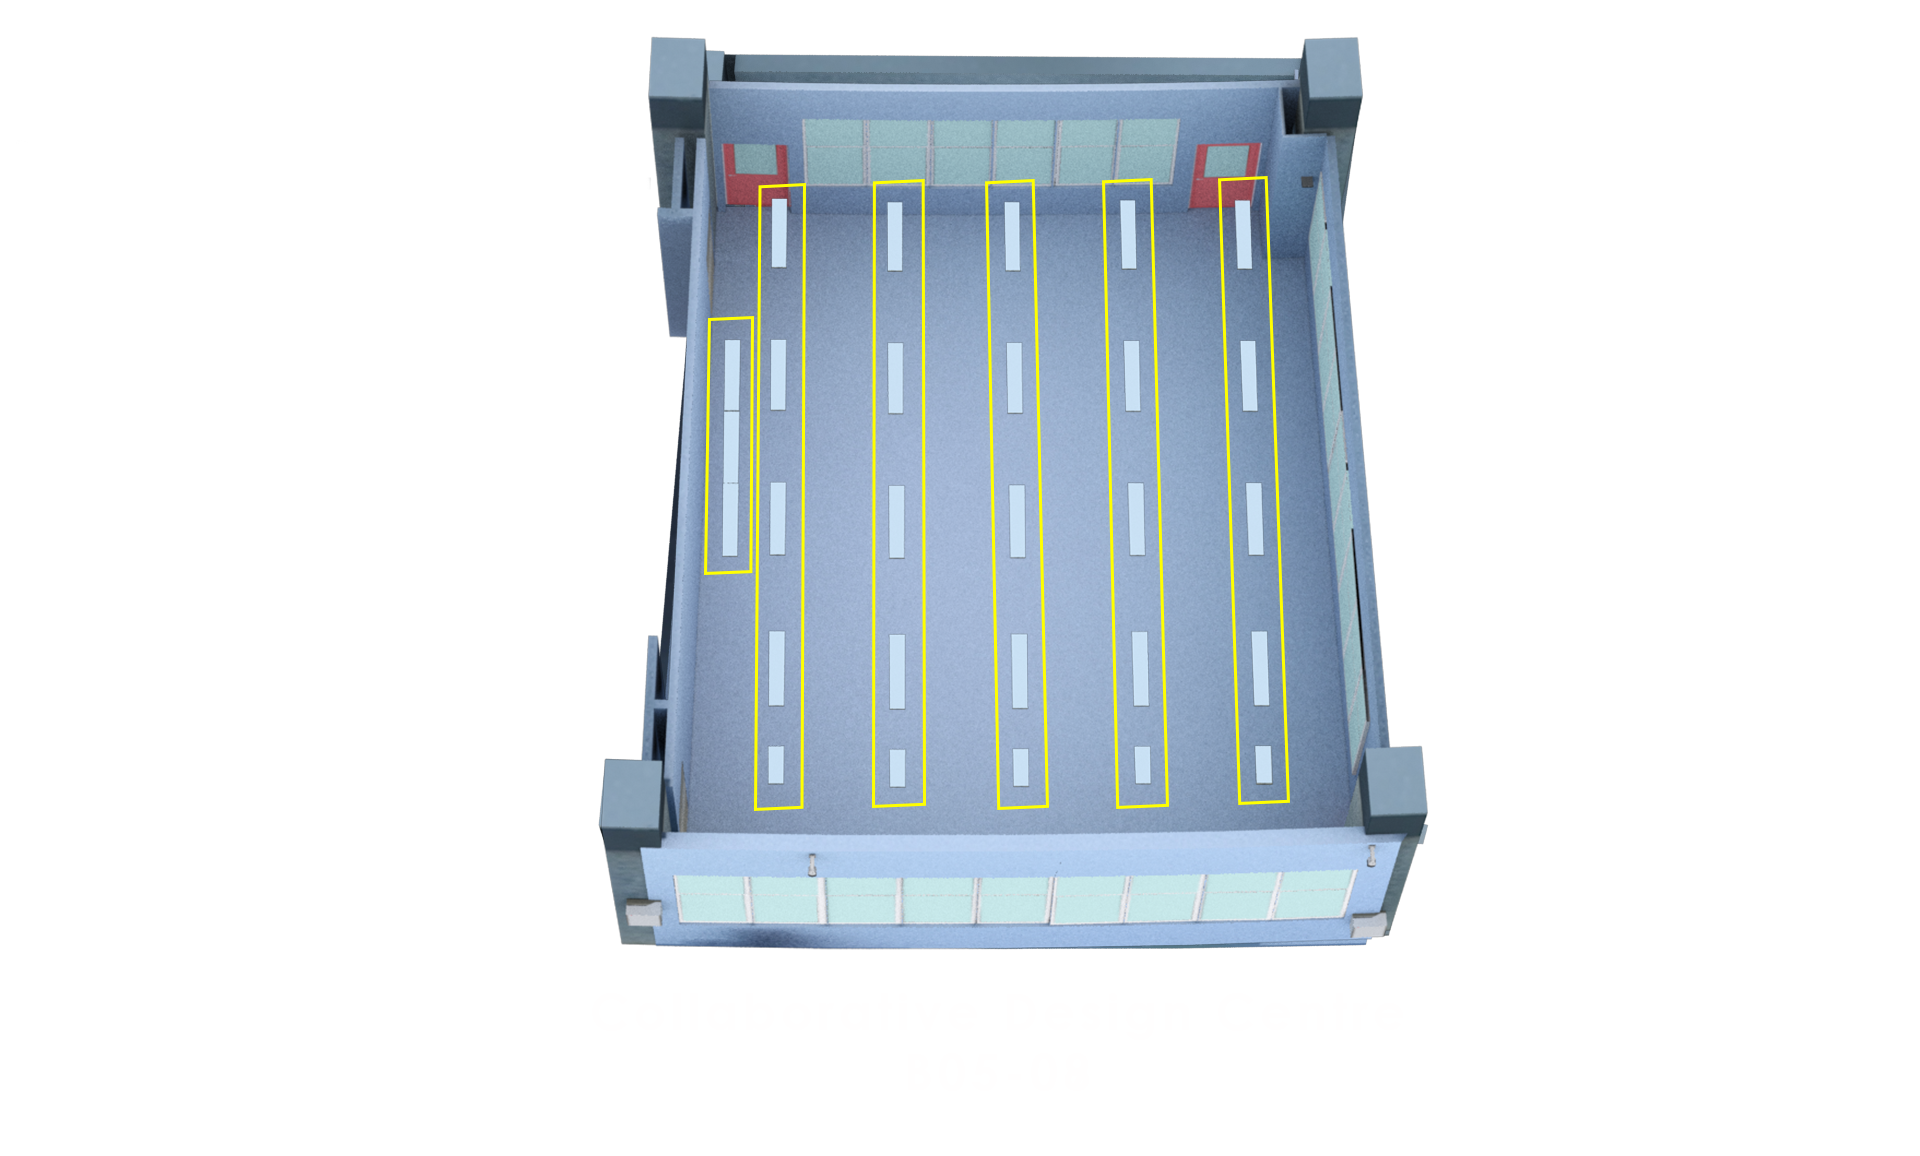
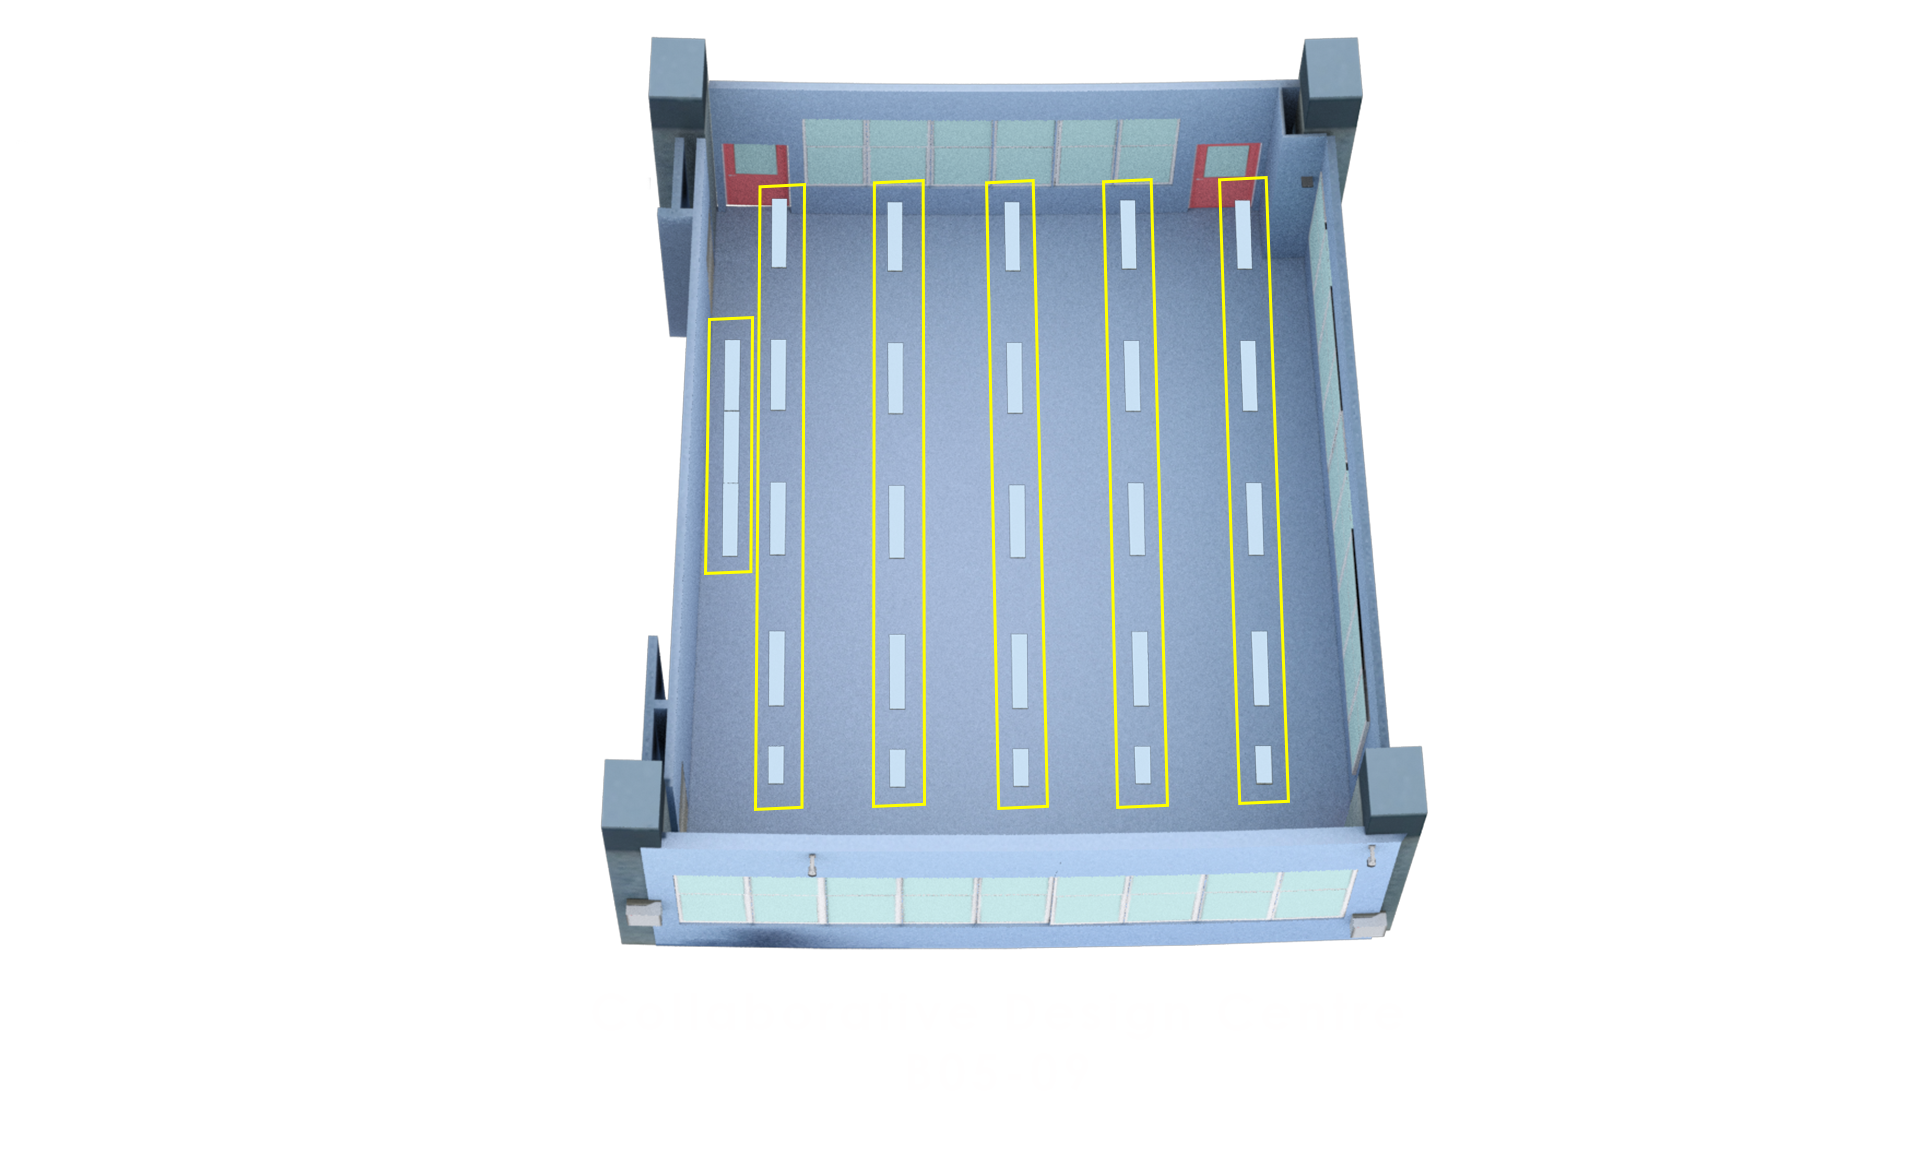
update

Changed region(s): [[0.3438, 0.0311, 0.6875, 0.0934], [0.3438, 0.436, 0.375, 0.5917], [0.5938, 0.8097, 0.7188, 0.8408]]

diff --git a/Calypso/src/views/OverviewPage.vue b/Calypso/src/views/OverviewPage.vue
@@ -585,13 +585,13 @@ export default {
           window.open('https://visualizer-lite-html.vercel.app/?site=23&levels=91', '_blank');
           break;
         case 'box7':
-          window.open('https://visualizer-lite-html.vercel.app/?site=23&levels=97', '_blank');
+          window.open('https://visualizer-lite-html.vercel.app/?site=23&levels=99', '_blank');
           break;
         case 'box8':
           window.open('https://visualizer-lite-html.vercel.app/?site=23&levels=98', '_blank');
           break;
         case 'box9':
-          window.open('https://visualizer-lite-html.vercel.app/?site=23&levels=99', '_blank');
+          window.open('https://visualizer-lite-html.vercel.app/?site=23&levels=97', '_blank');
           break;
         case 'box10':
           window.open('https://visualizer-lite-html.vercel.app/?site=23&levels=95', '_blank');
@@ -1554,87 +1554,87 @@ button:hover {
 
 /* Positioning for each box - Washroom*/
 #box1 {
-  top: 69%;
+  top: 63%;
   left: 6%;
   width: 10%;
   height: 23%;
 }
 
 #box2 {
-  top: 48%;
+  top: 42%;
   left: 13%;
   width: 11%;
   height: 18%;
 }
 
 #box3 {
-  top: 34%;
+  top: 19%;
   left: 11%;
   width: 11%;
-  height: 14%;
+  height: 20%;
 }
 
 #box4 {
-  top: 34%;
+  top: 19%;
   left: 22%;
   width: 6%;
-  height: 14%;
+  height: 18%;
 }
 
 #box5 {
-  top: 32%;
+  top: 19%;
   left: 28%;
   width: 15%;
   height: 11%;
 }
 
 #box6 {
-  top: 53%;
+  top: 42%;
   left: 29%;
-  width: 25%;
+  width: 27%;
   height: 9%;
 }
 
 #box7 {
-  top: 62%;
+  top: 54%;
   left: 25%;
-  width: 10%;
-  height: 21%;
+  width: 11%;
+  height: 24%;
 }
 
 #box8 {
-  top: 61%;
-  left: 35%;
+  top: 52%;
+  left: 36%;
   width: 9%;
-  height: 20%;
+  height: 24%;
 }
 
 #box9 {
-  top: 60%;
-  left: 44%;
+  top: 51%;
+  left: 45%;
   width: 10%;
-  height: 19%;
+  height: 23%;
 }
 
 #box10 {
-  top: 32%;
+  top: 16%;
   left: 43%;
-  width: 15%;
-  height: 10%;
+  width: 17%;
+  height: 12%;
 }
 
 #box11 {
-  top: 33%;
-  left: 65%;
+  top: 17%;
+  left: 67%;
   width: 8%;
-  height: 9%;
+  height: 13%;
 }
 
 #box12 {
-  top: 42%;
+  top: 28%;
   left: 33%;
-  width: 40%;
-  height: 10%;
+  width: 43%;
+  height: 13%;
 }
 
 /* Close Button Styling */
@@ -1694,12 +1694,15 @@ button:hover {
 
 .subsystems-content {
   display: grid;
-  grid-template-columns: repeat(6, 1fr); /* This ensures 6 columns */
-  grid-template-rows: repeat(2, auto); /* Adjust number of rows as necessary */
+  grid-template-columns: repeat(6, 1fr);
+  /* This ensures 6 columns */
+  grid-template-rows: repeat(2, auto);
+  /* Adjust number of rows as necessary */
   gap: 1rem;
   padding: 2rem;
   width: 100%;
-  justify-content: center; /* Ensure grid is centered */
+  justify-content: center;
+  /* Ensure grid is centered */
 }
 
 .subsystem-card {
